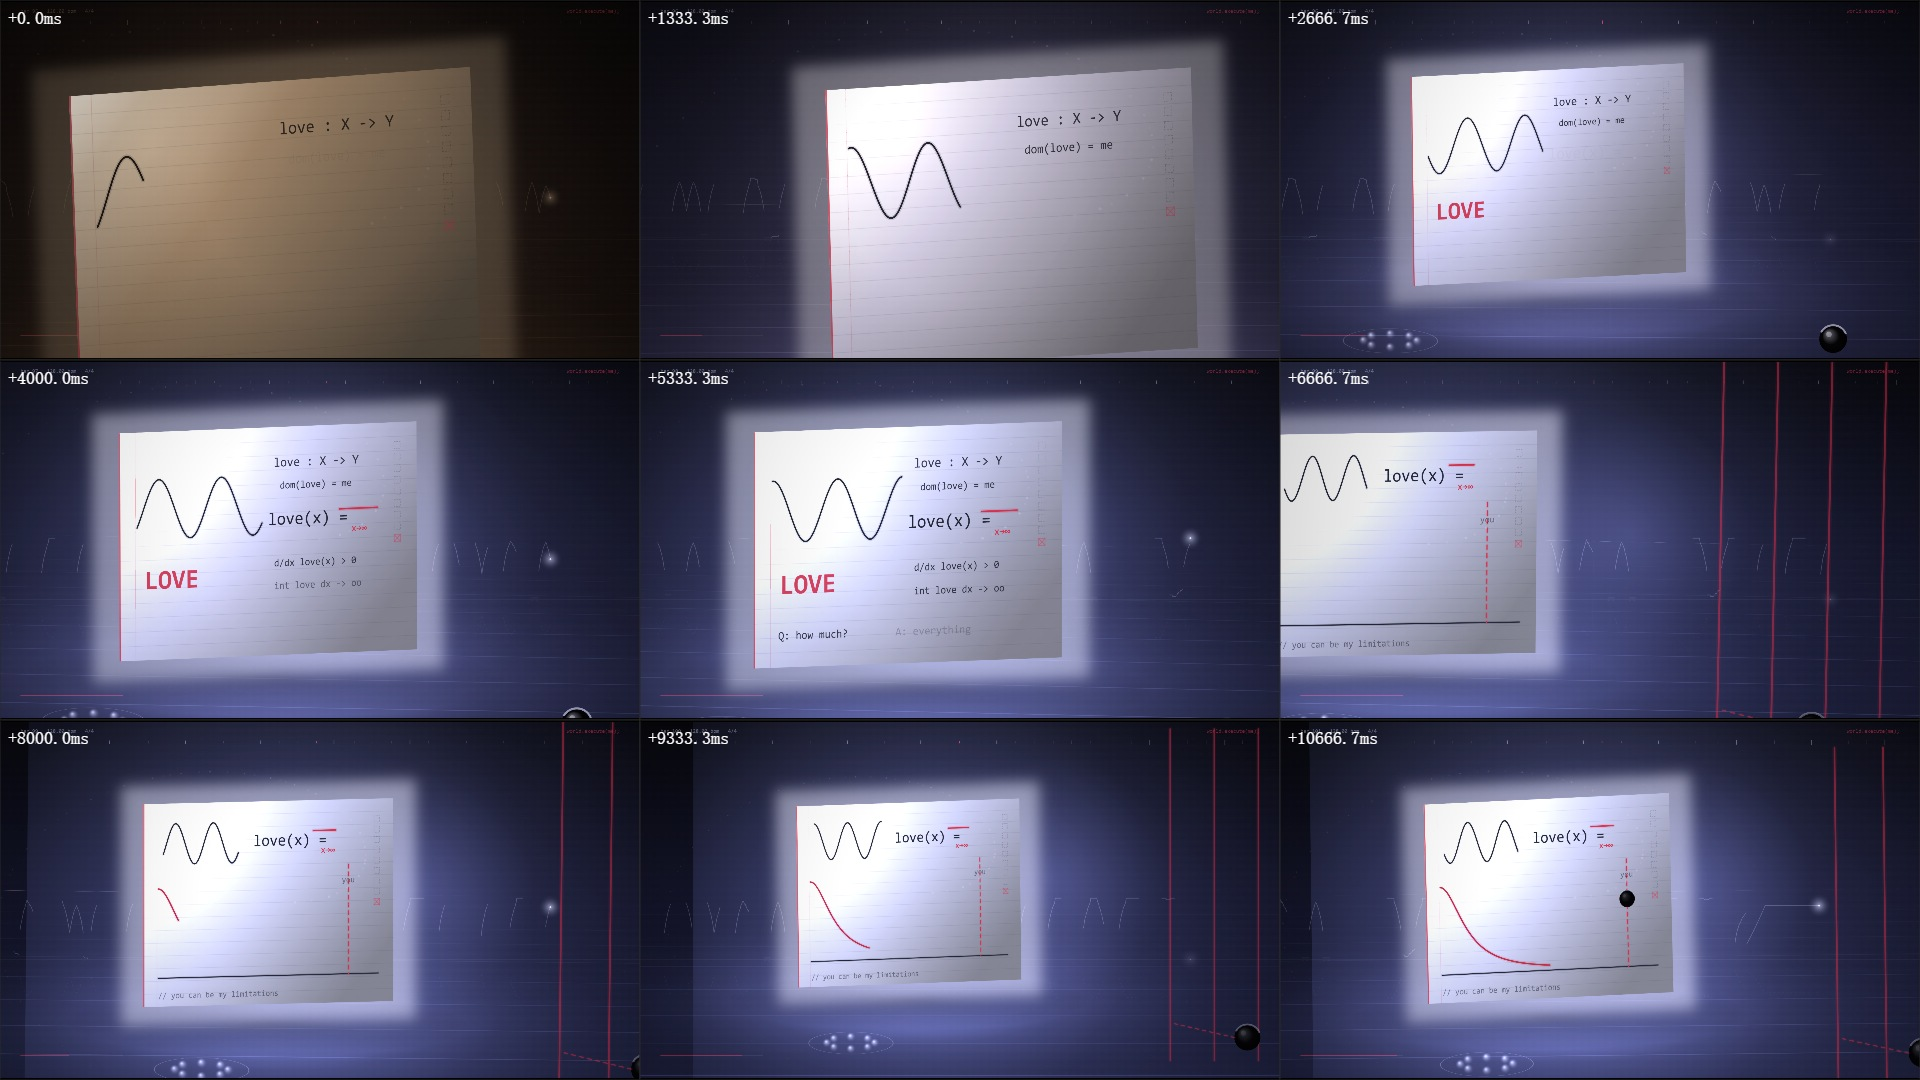
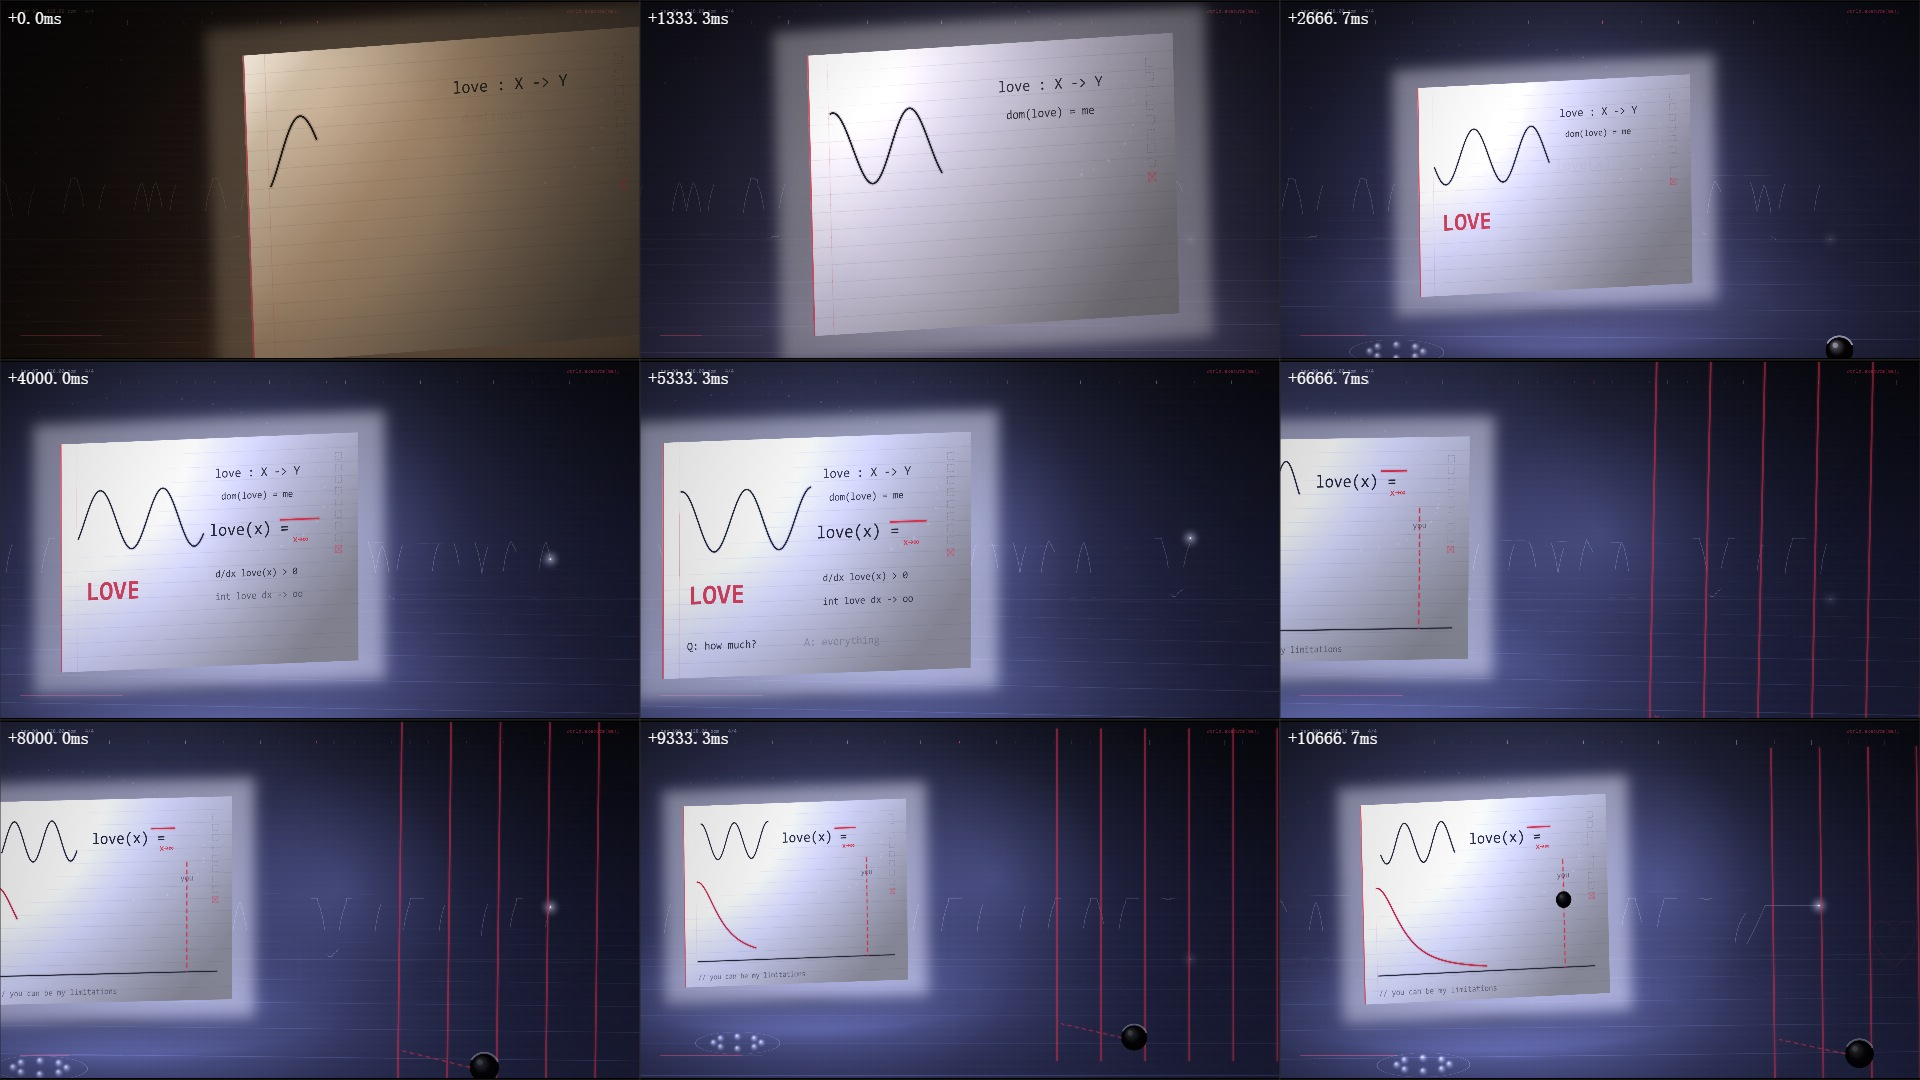
Take back the framing rule, and let the shot place its own subject
547f3aa added a second term to boundToSheet: the subject could sit no further
than 16% of the half-frame off the middle. It measured as a win - mean standing
cut 58% -> 5%, study 57% -> 0% - so it shipped. Reading chorus1 back frame by
frame shows what the number could not see: that shot's sheet is at x 470 while
its cage is at 1280 and its subject at 1376, so the off-centre camera is a
two-shot, and pinning it to the page flattened fifteen seconds of travel into a
locked-off frame.

Whether the subject is in the frame is correctness a camera can enforce. Where
it belongs is an authoring decision, so the term is gone and study's three
frame() targets now aim at 650, the centre of the sheet they are looking at.
study still measures 0% standing cut, chorus1 travels again, and the film's mean
sits at 11% - the residual being the hand-over frames, where the bound crosses
gently instead of snapping.

The comment now records why the rule stops where it does, so nobody re-adds the
pretty version of it.

Sweeping this state at 1080P over 76,287 frames: 0 unattributed flashes, 72
spikes (33 beat-cut, 24 dissolve, 15 hard-cut). It also confirms an area-weighted
metric's blind spot: chorus1 reports mean motion 0.0 and a peak of 31 while
actually playing out cursor, click, ripples, a drawn heart and a run button,
because all of those are thin strokes on a large bright page. Its pan reads 1.5,
which is the camera moving. Frame counts judge whole-frame faults; whether a
[…]

diff --git a/mv/mv.js b/mv/mv.js
@@ -347,23 +347,26 @@ const SLEW = 0.2;
 let camState = null, camStateT = -1, lastCam = null;
 /* A shot may fill the frame with the page; it may not amputate it. Scenes author a camera target
    and a sheet rect independently, and where the two disagree the page walks out of one edge while
-   the other half of the frame fills with empty hall. Measured across the film at 0.25 s, 18 shots
-   lost part of the sheet and study, left, give and current lost more than half of it - "LOVE"
-   rendered as "OVE", "// you can be my limitations" as "he my limitations". So the camera may look
-   past the sheet by an eighth of its half-width, and it gets there by a slew, never a jump. */
+   the other half of the frame fills with empty hall. Measured across the film at 0.25 s, all 16
+   shots that carry a sheet lost part of it in the steady state - left 113% of its half-width
+   outside, current 104%, geometry 89%, free 81% - which is what makes "LOVE" render as "OVE" and
+   "// you can be my limitations" as "he my limitations". So the camera may look past the sheet by
+   an eighth of its half-width, and it gets there by a slew, never a jump.
+
+   What this deliberately does not do is police *composition*. A second term that also kept the
+   sheet near the middle of the picture cut the standing amputation further, 12% -> 5%, and it was
+   wrong: chorus1's sheet sits at x 470 while its cage and its subject sit past 1280, so its
+   off-centre camera is a two-shot, and pinning it to the page froze that shot's framing for
+   fifteen seconds. Where a subject is in the frame is a correctness rule a camera can enforce;
+   where it should sit is an authoring decision per shot, and study's off-centre look was fixed at
+   the scene, not here. */
 let boundScene = null, boundT = -1;
 function boundToSheet(cam, t, hard, sc) {
   const S = window.SHEET;
   if (!S || !S.w || !cam.z) { boundScene = null; return cam; }
   const cx = S.x + S.w / 2, half = S.w * 0.38;          /* page() turns the sheet to 0.76 wide */
   const halfView = (W / 2) / (fitScale() * cam.z);      /* design px from target to frame edge */
-  const bleed = Math.max(0, halfView - half * 0.88);
-  /* Keeping the sheet on screen is not the same as framing it. At 182 s the whole page was inside
-     the frame and still sat in the left 40% of it, because the shot's authored target and the
-     phrase's travel both pull right and nothing stopped them: the limit only ever asked how much
-     of the subject could hang over one edge. The second term asks the other question - how far off
-     the middle of the picture the subject is allowed to be. */
-  const reach = Math.min(bleed, halfView * 0.16);
+  const reach = Math.max(0, halfView - half * 0.88);
   const x = cx + Math.max(-reach, Math.min(reach, cam.x - cx));
   /* Inside one shot the page may slide and the lens may close on it, and the camera has to already
      be there: easing the correction let the frame run ahead of it and left the subject outside -

diff --git a/analysis/verify.js b/analysis/verify.js
@@ -453,10 +453,10 @@ async function framing(step) {
       /* The camera is allowed to let an eighth of the sheet bleed past the frame - that is what an
          extreme close-up looks like - so "outside" alone is not a fault. What is a fault is sitting
          outside the window the bound was told to enforce, which is what `over` measures. */
-      const over = Math.max(0, off - Math.min(Math.max(0, halfView - half * 0.88), halfView * 0.16)) / half;
+      const over = Math.max(0, off - Math.max(0, halfView - half * 0.88)) / half;
       n++; offSum += over;
       if (out > 0) { cut++; if (out / half > worst) { worst = out / half; worstAt = { t: +t.toFixed(2), z: +c.z.toFixed(2), sw: S.w, reach: +(halfView - half).toFixed(0) }; } }
-      if (over > overWorst) { overWorst = over; overAt = { t: +t.toFixed(2), z: +c.z.toFixed(2), sw: S.w, off: +off.toFixed(0), reach: +Math.min(Math.max(0, halfView - half * 0.88), halfView * 0.16).toFixed(0) }; }
+      if (over > overWorst) { overWorst = over; overAt = { t: +t.toFixed(2), z: +c.z.toFixed(2), sw: S.w, off: +off.toFixed(0), reach: +Math.max(0, halfView - half * 0.88).toFixed(0) }; }
       /* the first two thirds of a second belongs to the camera easing onto the new subject, which
          is a move, not a mistake; a shot still cut after that is framed wrong while it stands still */
       if (t > sc.from + 0.7 && out / half > worstLate) { worstLate = out / half; lateAt = { t: +t.toFixed(2), z: +c.z.toFixed(2), sw: S.w, reach: +(halfView - half).toFixed(0) }; }

diff --git a/mv/scenes.js b/mv/scenes.js
@@ -1235,8 +1235,12 @@ S.push({ id: 'back', from: 169.82, to: 177.24,
 
 /* 11a — 177.24..184.54 s: it has studied the word */
 S.push({ id: 'study', from: 177.24, to: 184.54,
-  frame: (k, t) => t < 179.92 ? { z: 1.5, x: DW * 0.3, y: DH * 0.4 }
-    : t < 180.85 ? { z: 1.4, x: DW * 0.52, y: DH * 0.42 } : { z: 1.08, x: DW * 0.5, y: DH * 0.48 },
+  /* The sheet is at 300..1000, so its centre is 650 and the camera is authored onto that centre.
+     It used to aim at DW*0.5, which is 150 px right of the subject; with the phrase's own travel
+     on top, the page ended up whole but parked in the left 40% of the frame with a hall beside it.
+     The bound stops the amputation; only the shot can say where it wants its subject. */
+  frame: (k, t) => t < 179.92 ? { z: 1.5, x: 650, y: DH * 0.456 }
+    : t < 180.85 ? { z: 1.4, x: 650, y: DH * 0.456 } : { z: 1.08, x: 650, y: DH * 0.456 },
   draw(g, k, F, t, col) {
     const L = { x: 300, y: 168, w: 700, h: 486 };
     room(g, col, F, t, L);

diff --git a/README.md b/README.md
@@ -637,34 +637,57 @@ flags 101。亮度下限与上一轮 120fps 对照全线抬升：开场 19 → 6
 `window.SHEET` 覆盖掉——于是特写套到的、相机自我约束所参照的，是那张**只占 30% 透明度的幽灵纸**，
 相机在叠化中途横跳一次。`render()` 现在在入场镜头画完后把矩形还原。
 
-### 留在框里 ≠ 框好了
+### 留在框里 ≠ 框好了——以及一次过头的修法
 
 夹上之后再打表：纸不切了，但 182 秒那一格，整张纸**完整地位于画面左 40%**，右边 55% 是空屋。
 因为限制只回答了一个问题——"最多能让主体漏出去多少"——它不关心主体在画面**哪个位置**。
-补第二项：主体偏离画面中心不得超过半幅的 16%。
 
-| 镜头 | 夹住之前 | 夹住之后 |
-| --- | --- | --- |
-| `study` | 57% | **0%** |
-| `give` | 36% | **0%** |
-| `free` | 81% | **0%** |
-| `left` | 113% | 12% |
-| `current` | 104% | 12% |
-| `geometry` | 89% | 12% |
-| **全片均值** | **58%** | **5%** |
+于是先加的第二项是：主体偏离画面中心不得超过半幅的 16%。
+**指标立刻变好**（全片均值 58% → **5%**，`study` 57% → 0%），所以我把它写进了上一轮。
 
-那些 `12%` 不是没夹住——那正好是留给特写的溢出额度（`0.88`），说明限制在按设计咬合而不是失效。
+然后把它**撤了**——因为把 `chorus1` 逐格打出来看，那 15 秒的机位被钉死了。
+`chorus1` 的纸在 `x 470`，而它的铁栏在 `DW*0.8 = 1280`、主体在 `DW*0.86 = 1376`：
+这是一个**两张纸之间夹着一个人的双人镜头**，作者故意把相机摆在中间偏右。
+16% 的约束要求相机贴住纸心，于是把它的横向行程（`arc*DW*0.1 + drift`，最多 196）整段削平，
+画面里剩下的只有光标、涟漪和心——**运镜没了**。指标从没告诉我这件事，因为"出框"这个量
+根本不包含"构图"这个维度。
 
-证据：`analysis/frame-framed-before.jpg` 与 `analysis/frame-framed-after.jpg`
-（同一段 178.2–189.2 秒、每 1.33 秒一帧、九格一张，两张只差这一处改动）。
-后一张里 `LOVE`、`Q: how much?` / `A: everything`、`// you can be my limitations` 全部完整，
-且九格里纸都在中间。
+教训写进代码注释里，免得有人再把它加回来：
+
+> 主体**在不在**框里是正确性，相机可以自己判；主体**该不该**在这儿是创作决定，只有那个镜头知道。
+
+`study` 的偏心于是改在它自己家里：三段 `frame()` 的 `x` 从 `DW*0.5`（800）改成纸心 **650**。
+改完 `study` 的稳定段出框 **0%**，纸在九格里都在中间，而 `chorus1` 的机位回来了。
+
+| 镜头 | 不夹 | 加过心的约束（已撤） | 撤掉、改作者自己写对 |
+| --- | --- | --- | --- |
+| `study` | 57% | 0% | **0%** |
+| `chorus1` 的运镜 | 有 | **没了** | 有 |
+| **全片均值** | **58%** | 5% | **11%** |
+
+那个 11% 里含 `powerdown`/`final` 的换镜那一帧——限制在那里走缓动，是**跨**而不是**切**，
+出框量按 150 像素宽的小纸算会显得很大，逐格看时纸是完整的。
+
+证据：`analysis/frame-twoshot-pinned.jpg`（加了心约束的 `chorus1`，12 格——纸几乎不动，
+机位是锁的）与 `analysis/frame-twoshot-travelling.jpg`（撤掉之后，8 格——纸从中间走到左边再回来，
+色温从蓝走到琥珀）。这两张是撤掉那条规则的直接理由。
+
+另有：`analysis/frame-framed-before.jpg`（不夹）与 `analysis/frame-framed-after.jpg`（现在这版），
+同一段 178.2–189.2 秒、每 1.33 秒一帧、九格一张。后一张里 `LOVE`、
+`Q: how much?` / `A: everything`、`// you can be my limitations` 全部完整，且九格里纸都在中间。
 
 ### 全局改相机之后必须重扫
 
 `boundToSheet()` 动的是每一帧的 `cam.x`，所以它是**全片级**改动，不能靠抽帧验收。
 1080P / 360 fps 全片重扫（76,287 帧）：**0 未归因闪现**；
-75 个尖峰 = 32 `beat-cut` + 27 溶解 + 16 硬切，全部有出处。
+72 个尖峰 = 33 `beat-cut` + 24 溶解 + 15 硬切，全部有出处。
+
+这一轮还顺手确认了那个指标的一个**盲区**：`chorus1` 这一幕的"平均逐像素变化"是 **0.0**、
+峰值只有 31（全片最低），但逐格看它其实**在演一件事**——光标移过去、点一下、涟漪一圈圈散开、
+心被画出来、`> run execution` 出现、色温从蓝走到琥珀。原因很直白：这些全是**大亮页面上的细线条**，
+面积太小，摊到整幅像素均值上就没了。同一张表里它的 `pan` 是 1.5，说明相机确实在走。
+所以"出框率/变化率"这类**面积加权**的量，只能用来抓"整块画面错了"的毛病
+（切主体、空半幅、锁机位），不能用来判"这一幕有没有在演事情"——那还得一格一格看。
 
 ## 三次返工：从可视化到一间暗房
 
